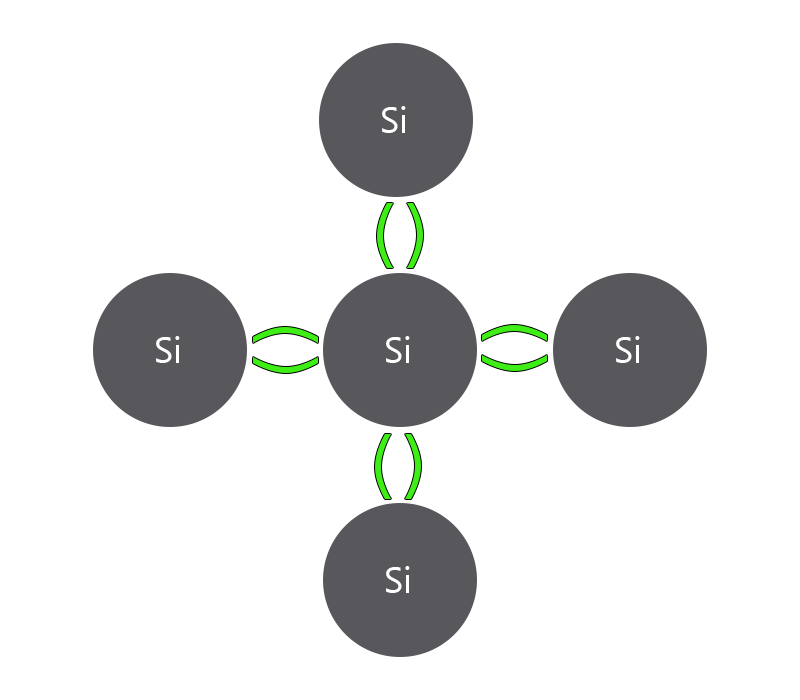
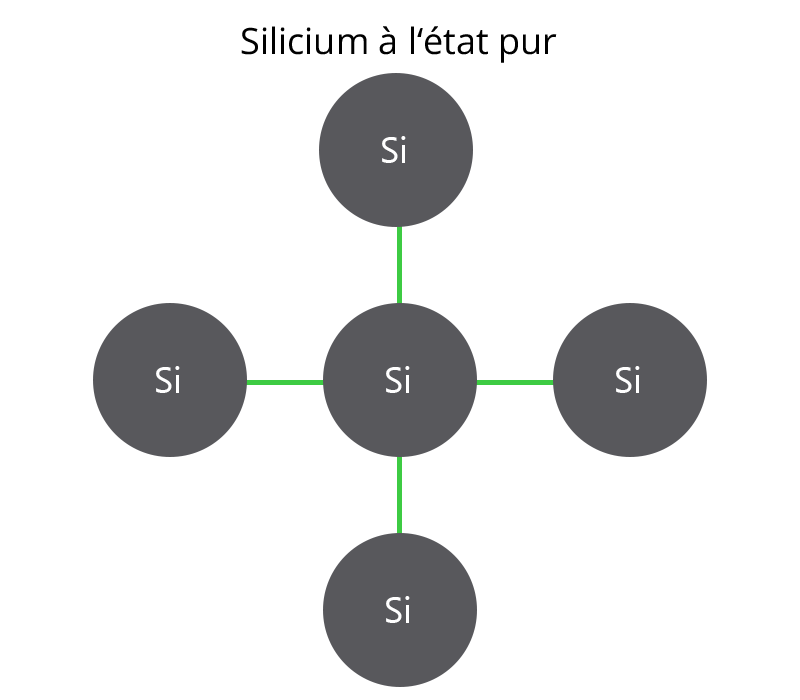
Ajout doc diode

diff --git a/Website/documentation.html b/Website/documentation.html
@@ -80,10 +80,19 @@
 										Afin de pouvoir manipuler les caractéristiques électriques d'un semi-conducteur, on a recourt au principe de <strong>dopage</strong>. Ce principe consiste en fait à "contaminer" le semi-conducteur intrinsèque avec des atomes possédant un nombre différent d'électrons de valence. En se faisant, il est possible d'obtenir soit un ajout ou un manque d'électrons libres dans la substance.<br><br> 
 										Attardons-nous sur le cas du silicium, qui est l'élément utilisé dans la plupart des diodes et des transistors.<br><br>
 										
-										<figure><img class="img-responsive" src="assets/images/silicium_pure.png" alt="Symbole de la diode" />
+										<figure><img class="img-responsive" src="assets/images/silicium_pure.png" alt="Silicium pur" />
 										<figcaption>Structure du silicium à l'état pur</figcaption>
 										</figure>
+										Dans un bloc de silicium pur, tous les électrons de valences seront liés entre-eux par des liaisons covalentes. Il n'y a donc aucun électron <i>libre</i>, ce qui signifie que le courant ne peut pas passer. 
 										
+										<br><br>Afin d'obtenir des électrons libres dans le silicium pur, une faible quantité d'un élément ayant un nombre plus élevé d'électrons de valence y sera injectée. On parle alors de <strong>dopage</strong>. 
+										
+										<figure><img class="img-responsive" src="assets/images/silicium_n-type.png" alt="Silicium dopé avec du phosphore" />
+										<figcaption>Silicium dopé à l'aide du phosphore - Semi-conducteur type-N</figcaption>
+										</figure>
+										
+										<br>
+										Puisque le phosphore possède 5 électrons de valence et que le silicium n'en possède que 4, il y aura forcément un électron célibataire. Cet électron libre 
 										
 									
                                     </p>
